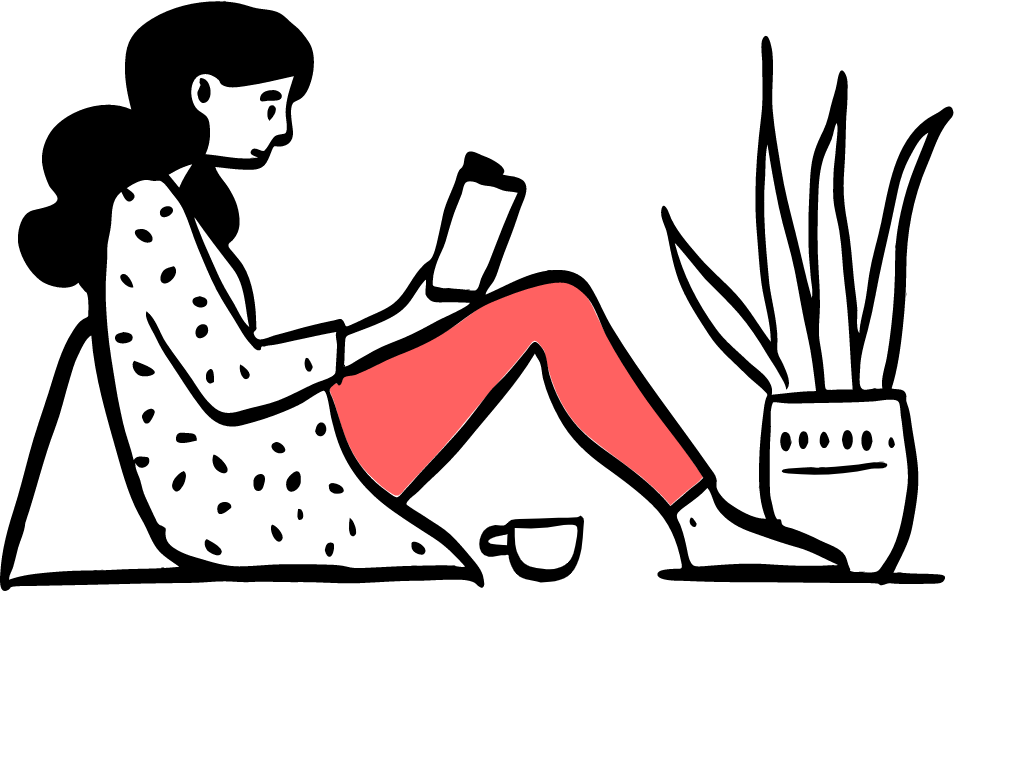
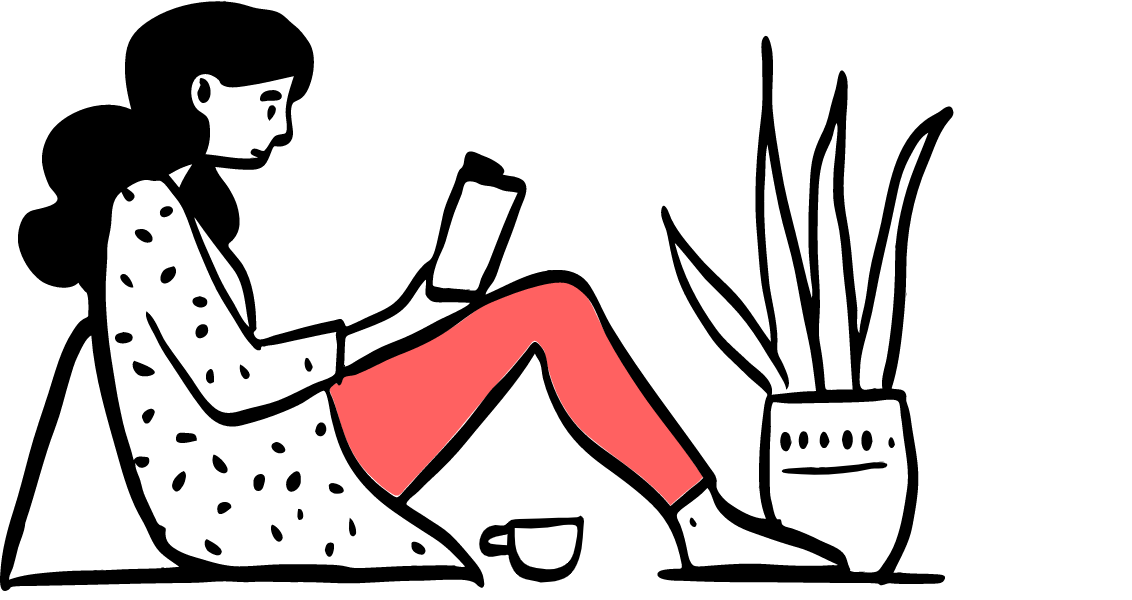
fix top image

diff --git a/pages/index.js b/pages/index.js
@@ -19,11 +19,10 @@ export default function Home() {
       <div className="container max-w-screen-lg mx-auto px-4">
         <div className="flex items-center flex-col sm:flex-row sm:space-x-4 sm:py-8 mb-16">
           <div className="flex-1 relative">
-            { false && <div className="z-0 absolute w-64 h-64 bg-gray-100 rounded-full hidden sm:block" style={{top:90, left:-70}}></div> }
-            <img src="/images/top.png" className="mx-auto max-w-xs sm:mt-12 relative z-10" />
+            { false && <div className="z-0 absolute w-72 h-72 bg-gray-100 rounded-full hidden sm:block" style={{top:-20, left:"-45%"}}></div> }
+            <img src="/images/top.png" className="max-h-36 sm:max-h-44 mt-4 sm:mt-16 relative z-10" />
           </div>
-          <div className="py-8 relative">
-            { false && <div className="z-0 absolute w-24 h-24 bg-gray-100 rounded-full hidden sm:block" style={{top:0, right:-100}}></div> }
+          <div className="flex-1 py-8 relative">
             <h2 className="text-3xl sm:text-4xl font-bold mb-4">毎月1冊、読書が続く。</h2>
             <p className="text-gray-600 mb-8">
               <ruby className="font-satisfy text-xl mr-1">honyen<rt>ホニェン</rt></ruby>
